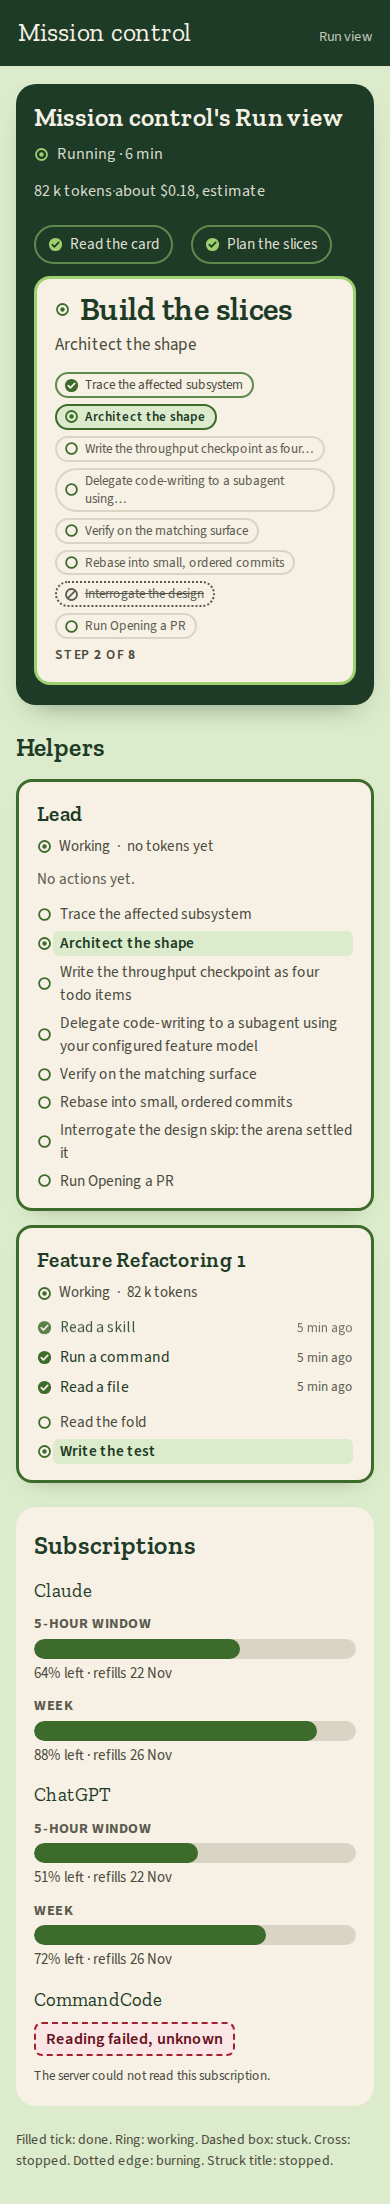
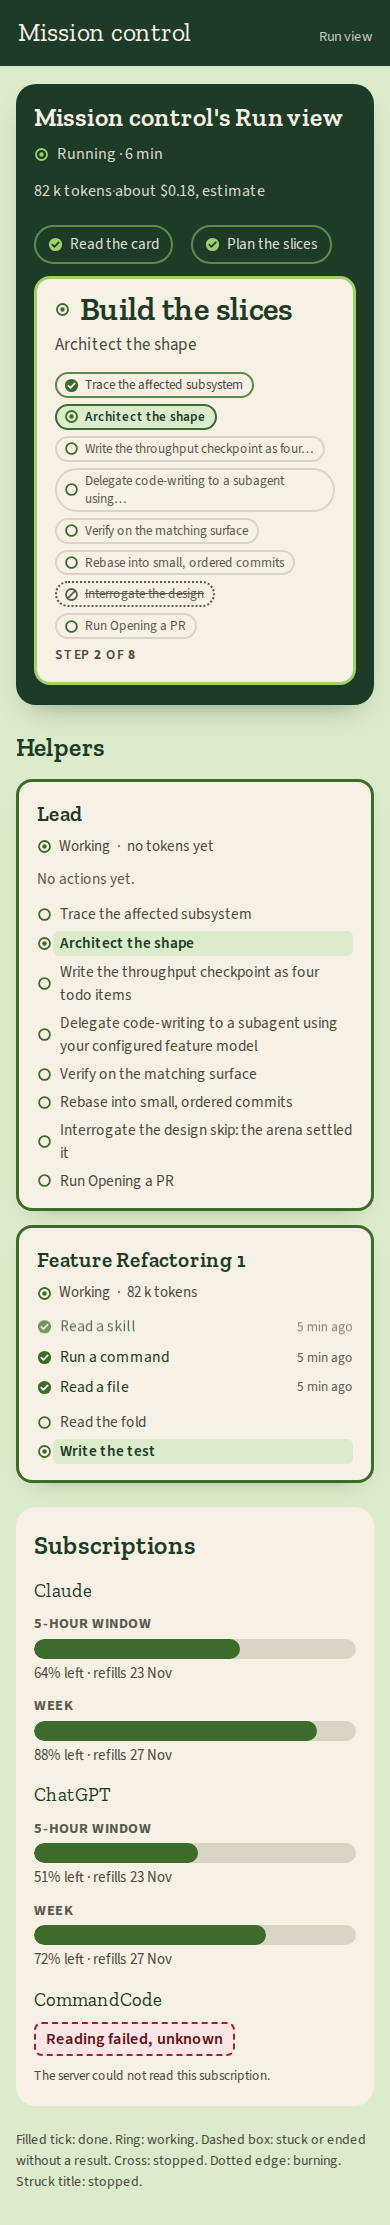
feat(dashboard): draw an ended run as ended, by its dashes
The run line reads "Ended, result unknown" with the dashed mark and a dashed
banner above the panel says the machine reached its last stage without saying
whether the run finished or stopped. No result is guessed: not finished, not
stopped.

The state-to-mark mapping moved into one table, so the run line can no longer
show a working ring beside a run that is over, and the legend now says the
dashed box covers an ended run as well as a stuck one.

Proved on a log the machine's own writer produced (the new `ended-unknown`
scene) at 1280 and 390 px: the banner is dashed, the run line's mark is the
dashed box, the clock holds still across two polls, and nothing overflows the
narrow screen. The proof pictures are regenerated from that run.

diff --git a/dashboard/app/run-view.jsx b/dashboard/app/run-view.jsx
@@ -12,7 +12,13 @@ const STATE_WORDS = {
   stuck: 'Stuck',
   stopped: 'Stopped',
   finished: 'Finished',
+  ended_unknown: 'Ended, result unknown',
 };
+
+// Which mark each state and warning draws. The table is the one place a state becomes a shape,
+// so the screen cannot show a live ring beside a run that is over.
+const MARK_OF_STATE = { running: 'working', waiting_for_you: 'working', stuck: 'stuck', stopped: 'failed', ended_unknown: 'stuck' };
+const MARK_OF_WARNING = { stopped: 'failed', burning_fast: 'failed', stuck: 'stuck', ended_unknown: 'stuck' };
 
 const HELPER_WORDS = {
   working: 'Working',
@@ -111,7 +117,7 @@ function Warnings({ warnings }) {
       {warnings.map((warning, index) => (
         <li key={`${warning.kind}-${index}`} className={styles.warning} data-kind={warning.kind}>
           <p className={styles.warningTitle}>
-            <Mark state={warning.kind === 'stuck' ? 'stuck' : 'failed'} />
+            <Mark state={MARK_OF_WARNING[warning.kind] ?? 'failed'} />
             <span>{warning.title}</span>
           </p>
           <p className={styles.warningText}>{warning.text}</p>
@@ -309,8 +315,8 @@ export function RunView({ initialSnapshot }) {
             <div className={styles.panelTop}>
               <div>
                 <h1 className={styles.title}>{run.title}</h1>
-                <p className={styles.runLine}>
-                  <Mark state={run.status === 'stuck' ? 'stuck' : run.status === 'stopped' ? 'failed' : 'working'} />
+                <p className={styles.runLine} data-run-state={run.status}>
+                  <Mark state={MARK_OF_STATE[run.status] ?? 'working'} />
                   <span>
                     {STATE_WORDS[run.status] ?? run.status} · {duration(run.runningMs)}
                   </span>
@@ -360,7 +366,7 @@ export function RunView({ initialSnapshot }) {
         </section>
 
         <p className={styles.legend}>
-          Filled tick: done. Ring: working. Dashed box: stuck. Cross: stopped. Dotted edge: burning. Struck title: stopped.
+          Filled tick: done. Ring: working. Dashed box: stuck or ended without a result. Cross: stopped. Dotted edge: burning. Struck title: stopped.
         </p>
       </main>
     </div>

diff --git a/dashboard/DESIGN.md b/dashboard/DESIGN.md
@@ -191,7 +191,7 @@ The current-stage block carries a 3px lime border rather than a halo, so its hig
 
 Two radii families. Panels and cards are generously round (20px for the run panel and quota block, 16px for helper cards and the current-stage block, 14px for a warning banner); bars and chips are rounder still (12px on a quota bar, 999px on a past-stage pill, a 6px tick behind an in-progress task, 8px on the unknown-reading tag).
 
-Borders do the talking. Every card and banner has a 3px border whose style is a state: **solid** on a live helper or a stopped run's banner, **dashed** on the stuck banner, a stuck helper, a low-quota bar's ring, and the unknown-reading tag, **dotted** on a sent-back stage pill and on the burning-tokens banner. A given-up run's card title is struck through. No state is carried by colour alone.
+Borders do the talking. Every card and banner has a 3px border whose style is a state: **solid** on a live helper or a stopped run's banner, **dashed** on the stuck banner, the ended-without-a-result banner, a stuck helper, a low-quota bar's ring, and the unknown-reading tag, **dotted** on a sent-back stage pill and on the burning-tokens banner. A given-up run's card title is struck through. No state is carried by colour alone.
 
 ## Components
 
@@ -216,7 +216,7 @@ Borders do the talking. Every card and banner has a 3px border whose style is a 
 ### Warning banner
 
 - **Shape:** 14px corners, `14px 18px` padding, 3px border, mono-free text; the title in 1.2rem slab sits above one or two sentences of what is wrong.
-- **Stuck:** amber wash and text, dashed amber border. **Burning tokens fast:** the same wash, dotted border. **Stopped** and **Quota low:** madder wash and text, solid border. A stopped run's banner strikes its title through.
+- **Stuck and ended-without-a-result:** amber wash and text, dashed amber border. **Burning tokens fast:** the same wash, dotted border. **Stopped** and **Quota low:** madder wash and text, solid border. A stopped run's banner strikes its title through.
 - **Wording:** a banner says what is wrong and never suggests a fix; the numbers in it come from the settings file (7 minutes quiet, 20% left, 100,000 tokens in one call).
 
 ### Helper card
@@ -237,7 +237,7 @@ Borders do the talking. Every card and banner has a 3px border whose style is a 
 ### Do:
 
 - **Do** keep the stage name the largest text on the page at every width, via `clamp(1.9rem, 4.2vw, 2.9rem)`.
-- **Do** give every state a border shape: solid alive, dashed stuck or unknown or low, dotted sent back, struck through given up.
+- **Do** give every state a border shape: solid alive, dashed stuck or ended without a result, or unknown or low, dotted sent back, struck through given up.
 - **Do** write numbers in tabular figures with their unit ("12 minutes", "824 k tokens", "about $0.18, estimate").
 - **Do** let the stage rail grow as stages are reached, so it shows where the run has been.
 - **Do** put warnings above everything, in the order stopped, stuck, quota low, burning fast, and read them out of `dashboard/settings/run-view.json`, and read them out of `dashboard/settings/run-view.json`.

diff --git a/dashboard/docs/run-view-review.md b/dashboard/docs/run-view-review.md
@@ -11,7 +11,7 @@ written through the machine's own `createLiveFeed` and `stageEvents` (`dashboard
 | **OWN-WORLD: faces** — Zilla Slab for headings and the stage name, Source Sans 3 for everything else | met | `app/globals.css:30,44`; visible in `laptop.png` (slab stage name, slab section titles, sans body). |
 | **OWN-WORLD: state from edges as well as colour** — solid running, dashed stuck, dotted sent back, struck through given up | met | `stuck.png` (dashed amber banner, dashed helper card), `burning-fast.png` (dotted banner), `finished.png` (dotted pill for "Send it back to the builder"), `stopped.png` (solid red banner, struck title). Asserted as border-style in the spec, not as colour. |
 | **STORY** — without clicking, Todd knows the stage and step, whether it is moving, what it used against each subscription, and anything wrong | met | `laptop.png` answers all four above the fold: warnings (none), stage and step in the panel, running time, tokens and an estimate, then a bar per window. `nothing-running.png` shows the quiet answer. |
-| **FIRST VIEWPORT: warnings across the top when there are any** | met | `stuck.png`, `stopped.png`, `burning-fast.png`, `quota-low.png`: banner first, panel under it. The phone spec asserts warnings sit above the panel. |
+| **FIRST VIEWPORT: warnings across the top when there are any** | met | `stuck.png`, `stopped.png`, `burning-fast.png`, `quota-low.png`, `ended-unknown.png`: banner first, panel under it. The phone spec asserts warnings sit above the panel. |
 | **FIRST VIEWPORT: green panel with card title, running time, tokens, dollars marked "estimate"** | met | `laptop.png`: title in slab, "Running · 6 min", "82 k tokens · about $0.18, estimate". The word "estimate" is part of the string in `app/run-view.jsx:48`. |
 | **FIRST VIEWPORT: the current stage name is the largest text on the page** | met | `laptop.png`, `phone.png` (390×1688): 2.9rem stage name against a 2rem card title; the spec asserts the stage's font size is greater than the title's and above 24px. |
 | **FIRST VIEWPORT: its steps in a row and "step N of M"** | met | `laptop.png`: a row of pills under the stage name, the step in hand filled in sage with a solid green edge, passed steps solid-edged with a tick, a step the run skipped dotted with a struck name, and "step 2 of 8" beside them. The row is the Lead's own task list as the machine publishes it (`machine/flow/playbook.mjs` `announceTasks`), ordered by the numeric suffix of `playbook_N`, and the same lookup that names `run.step` gives the count, so the two cannot disagree. `dashboard/lib/run-view.test.mjs` holds the count to that list and the spec compares the row to the served snapshot on a laptop and a phone. |
